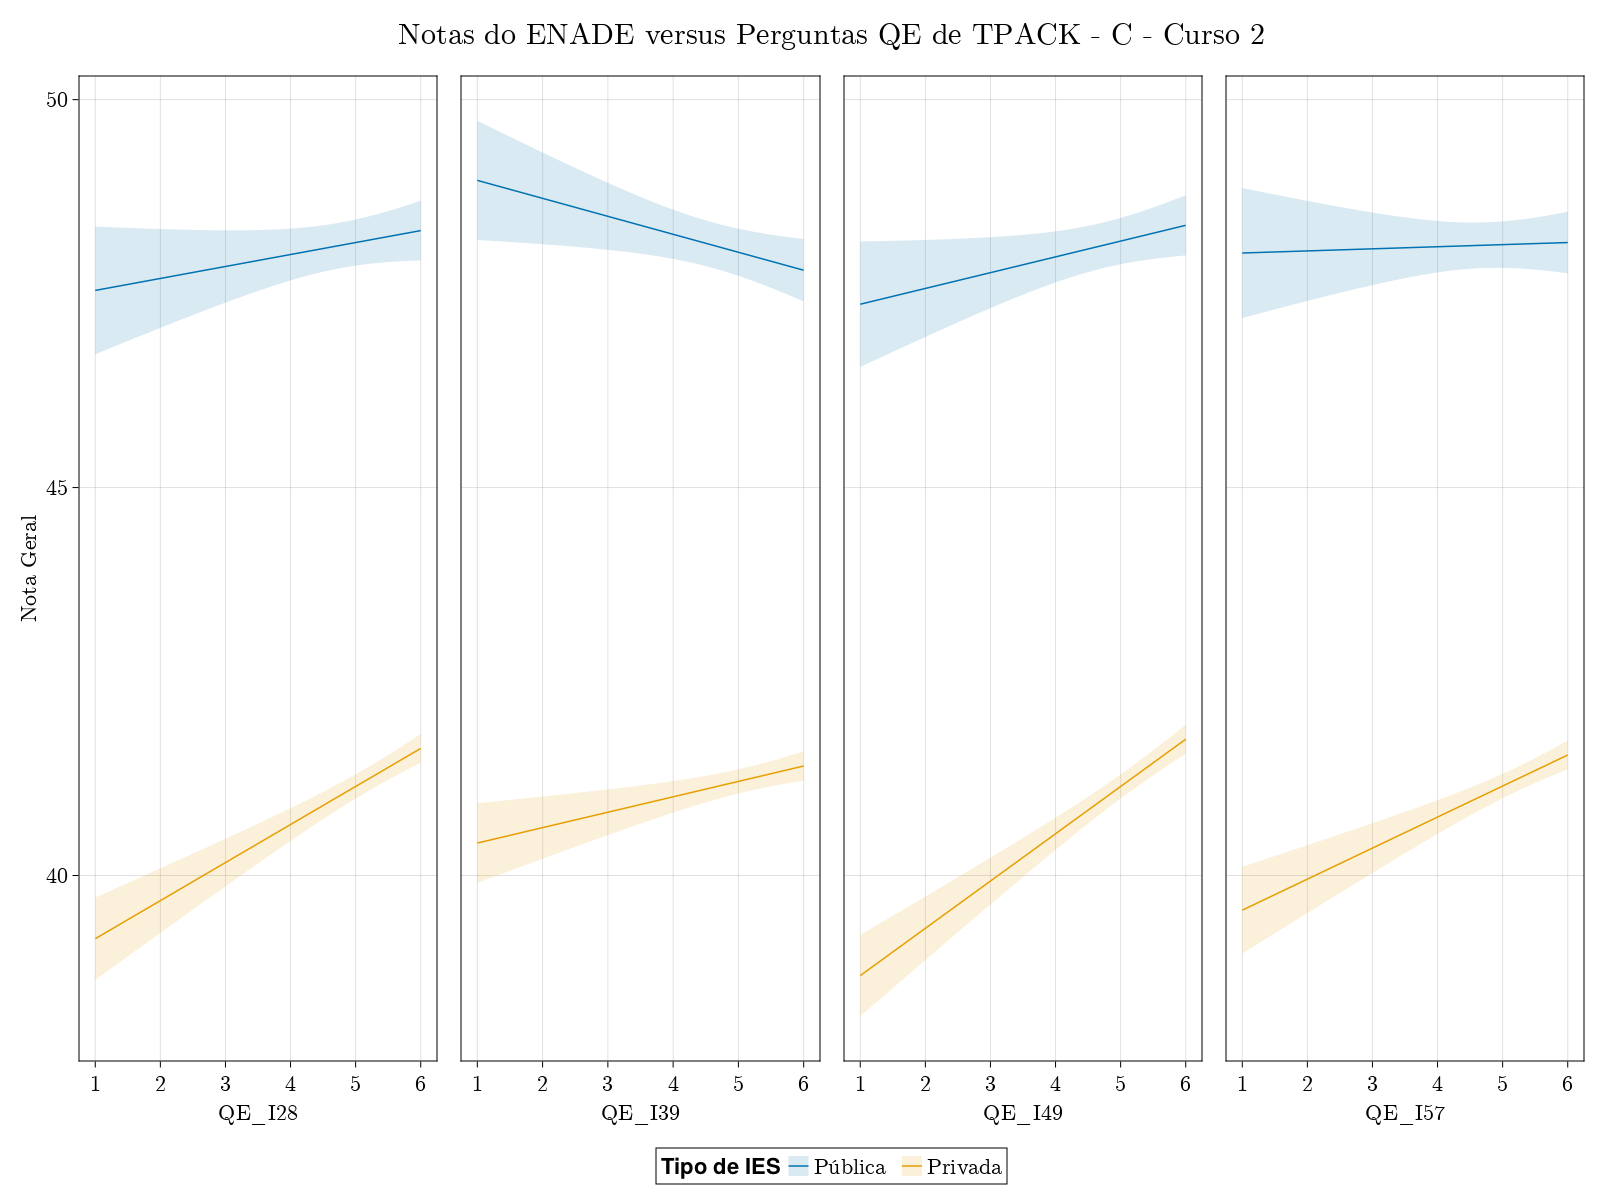
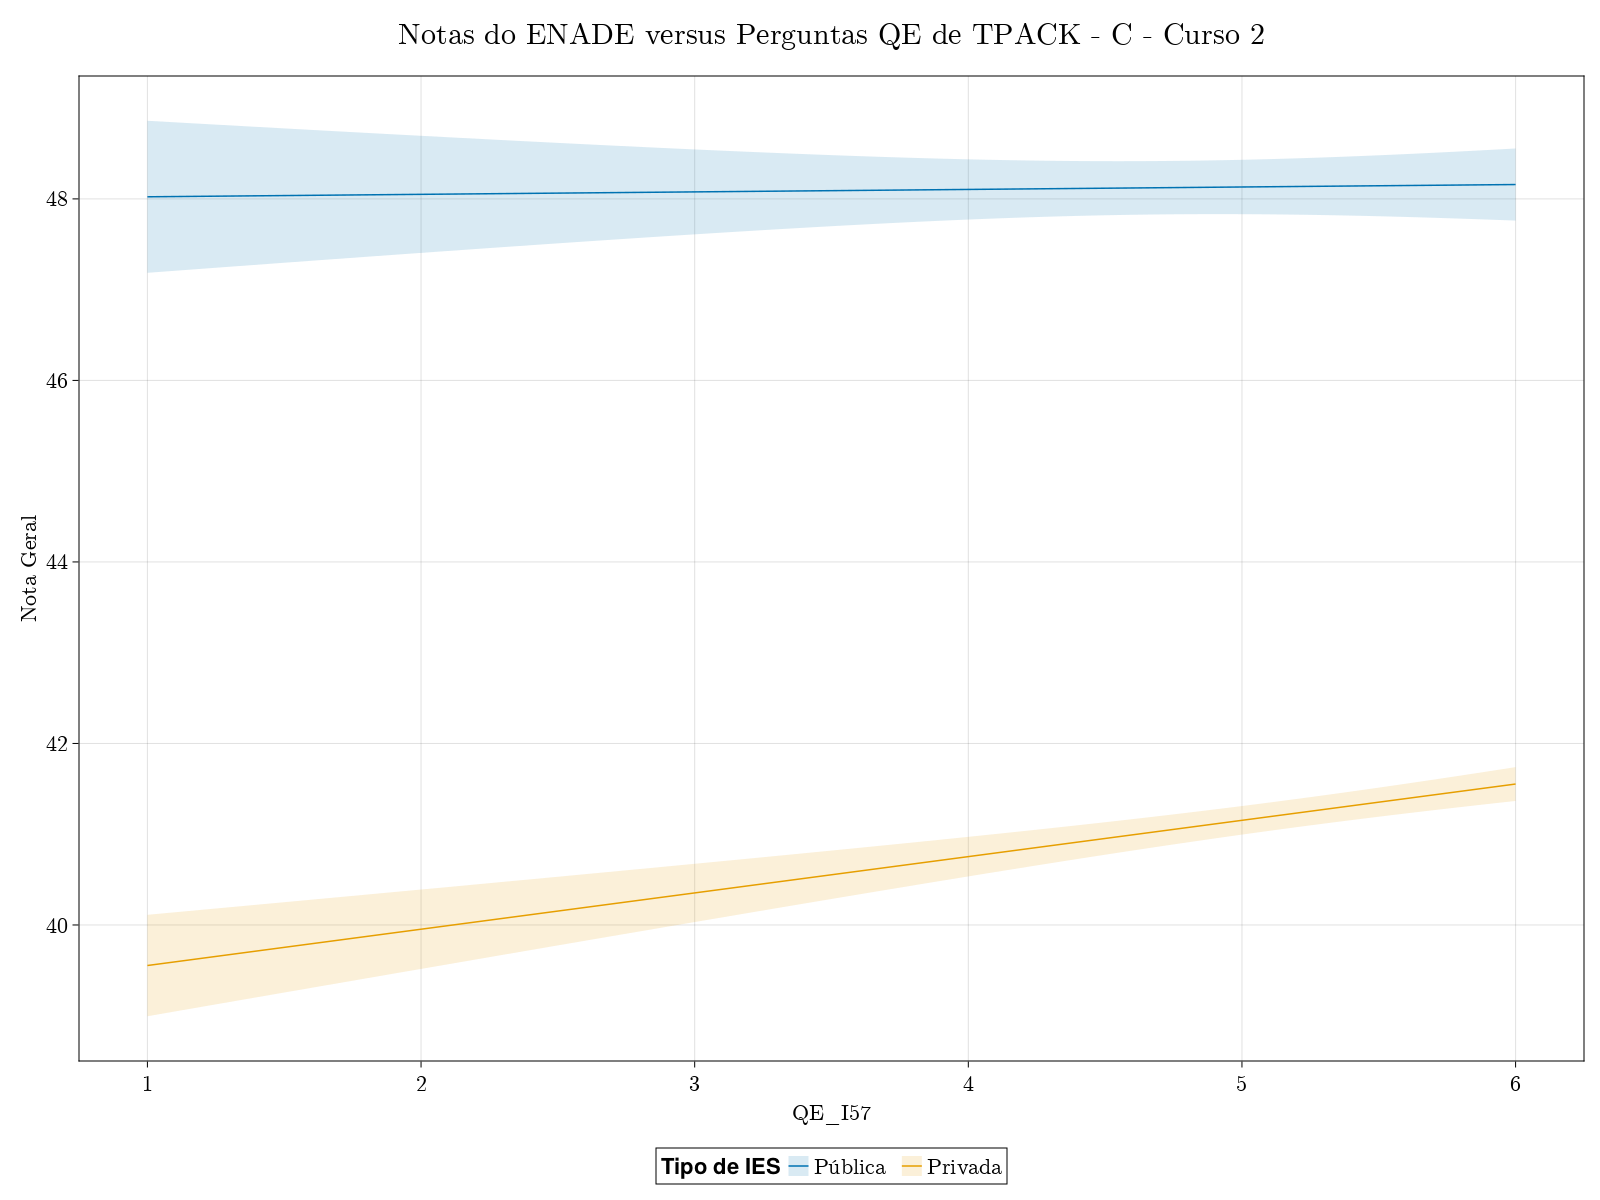
figuras de acordo com as novas proxys

diff --git a/README.md b/README.md
@@ -1,11 +1,11 @@
 # Conhecimentos TPACK
 
-A escala [TPACK](https://www.sciencedirect.com/science/article/pii/S0360131511002569).
+Este repositório contém os dados e código para reproduzir a anaálise
+do paper "TITULO" publicado no "JOURNAL".
 
-SEM com Variáveis Latentes sendo os `T`, `P` e `K` do TPACK e as perguntas `QE` sendo items das VLs,
-sendo que um item pode estar alocado em mais de uma VL.
+TODO: Inserir citação APA.
 
-## Variáveis do ENADE
+## Dicionário de Dados
 
 ### ENADE - Desempenho do Aluno
 
@@ -27,18 +27,15 @@ Valores:
 - `8` - Não sei responder
 
 - `T` (Tecnologia):
-  - `QE_I58`: Os professores utilizarão tecnologias da informação e comunicação (TICs) como estratégia de ensino (projetor, multimídia, laboratórios de informática, ambiente virtual de aprendizagem).
+  - `QE_I58`: Os professores utilizarão tecnologias da informação e
+              comunicação (TICs) como estratégia de ensino
+              (projetor, multimídia, laboratórios de informática,
+               ambiente virtual de aprendizagem).
 - `C` (Conteúdo):
-  - `QE_I28`: Os conteúdos abordados nas disciplinas do curso favoreceram sua atuação em estágios ou em atividades de iniciação profissional.
-  - `QE_I39`: As referências bibliográficas indicadas pelos professores nos planos de ensino contribuíram para seus estudos e aprendizagens.
-  - `QE_I49`: O curso propiciou acesso a conhecimentos atualizados e/ou contemporâneos em sua área de formação.
   - `QE_I57`: Os professores demonstraram domínio dos conteúdos abordados nas disciplinas.
 - `P` (Pedagogia):
-  - `QE_I29`: As metodologias de ensino utilizadas no curso desafiaram você a aprofundar conhecimentos e desenvolver competências reflexivas e críticas.
-  - `QE_I30`: O curso propiciou experiências de aprendizagem inovadoras.
-  - `QE_I32`: No curso você teve oportunidade de aprender a trabalhar em equipe.
-  - `QE_I36`: O curso contribuiu para o desenvolvimento da sua capacidade de aprender e atualizar-se permanentemente.
-  - `QE_I40`: Foram oferecidas oportunidades para os estudantes superarem problemas e dificuldades relacionados ao processo de formação.
+  - `QE_I29`: As metodologias de ensino utilizadas no curso desafiaram você a
+              aprofundar conhecimentos e desenvolver competências reflexivas e críticas.
 
 ### ENADE - IES
 
